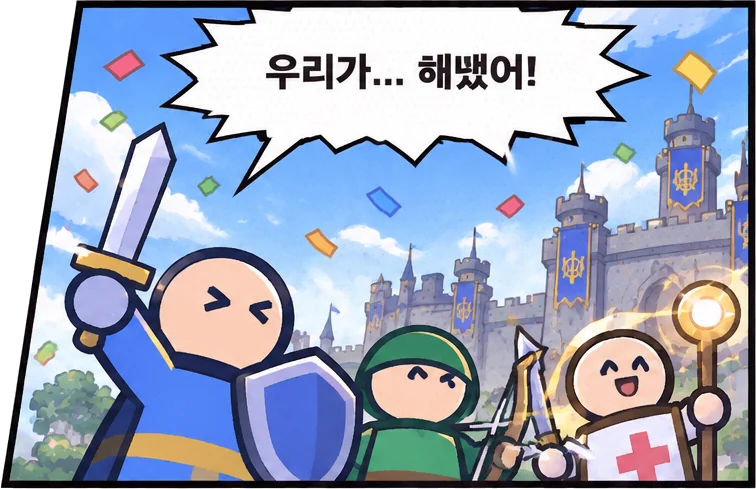
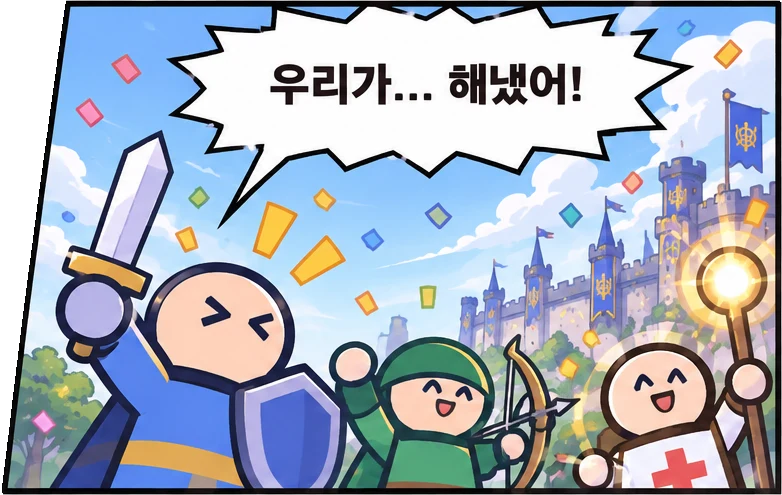
랭킹 서버 스크립트 복원·한마디/상세 기록 저장 추가, 내 기록은 브라우저에 저장한 한마디·상세로 보완, 100라운드 엔딩 컷신 교체, 대주교 부활 체력 25%

diff --git a/main.js b/main.js
@@ -1540,6 +1540,8 @@
     const box = $('rankbox'); if (!box) return; box.innerHTML = '<p>랭킹 불러오는 중…</p>';
     const r = await Net.top(10); if (!$('rankbox')) return;
     const esc = s => String(s).replace(/[&<>"']/g, c => ({ '&': '&amp;', '<': '&lt;', '>': '&gt;', '"': '&quot;', "'": '&#39;' }[c]));
+    // 서버가 한마디·상세 기록을 내려주지 않아도, 이 브라우저에서 올린 기록이면 저장해 둔 값을 붙여 보여 준다
+    { const loc = Net.localTop(); for (const e of r.list) { const l = loc.find(x => x.name === e.name && x.score === e.score); if (l) { if (!e.msg && l.msg) e.msg = l.msg; if (!e.d && !e.detail && l.d) e.d = l.d; } } }
     let hit = false; rankList = r.list;
     const rows = r.list.map((e, i) => { const me = mine != null && !hit && e.score === mine; if (me) hit = true; return '<tr class="clk' + (me ? ' me' : '') + '" data-ri="' + i + '"><td>' + (i + 1) + '</td><td>' + esc(e.name) + (e.msg ? '<div class="rmsg">“' + esc(e.msg) + '”</div>' : '') + '</td><td>' + (e.win ? '클리어' : e.round + '라운드') + '</td><td>' + fmtTime(e.time) + '</td></tr>'; }).join('');
     box.innerHTML = '<div class="rankhead">' + (r.server ? '전체 랭킹' : (Net.configured ? '서버에 연결하지 못해 내 기록만 표시' : '내 기록 (서버 미설정)')) + '</div>'
@@ -1565,12 +1567,12 @@
     act2: [[1.13, 1.81, 56.75], [56.94, 1.92, 41.93], [0.82, 48.39, 44.45], [44.96, 48.49, 54.04]], // 암흑 군단의 진격 개시 (assets/a30_*)
     endless: [[1.07, 1.92, 59.08], [59.77, 1.71, 39.28], [0.69, 48.39, 43.19], [43.38, 48.39, 55.55]],
     dragon: [[0.69, 1.51, 54.79], [52.65, 1.61, 46.6], [0.76, 48.79, 50.0], [48.05, 48.79, 51.26]], // 보물을 깨운 붉은 용의 비상 (assets/d80_*)
-    ending: [[0.91, 1.46, 52.99], [49.93, 1.46, 49.22], [0.91, 50.59, 48.37], [47.98, 50.59, 51.17]],
+    ending: [[0.91, 1.07, 50.59], [48.31, 1.07, 50.91], [0.91, 50.59, 49.54], [48.44, 50.59, 50.78]], // 용사들의 승리와 평화의 귀환
   };
   function playComic(name, done) {
     if (name === 'opening') $('comicStage').innerHTML = OPENING_HTML;
     const wide = name === 'ending'; $('comicStage').style.aspectRatio = wide ? '1536 / 1024' : ''; $('comicStage').style.width = wide ? 'min(97vw, calc((100vh - 62px) * 1.5))' : '';
-    if (name !== 'opening') $('comicStage').innerHTML = COMIC_POS[name].map((p, i) => '<img class="cp" data-i="' + (i + 1) + '" src="assets/' + ({ act2: 'a30', dragon: 'd80' }[name] || name) + '_' + (i + 1) + '.webp?v=3" alt="" style="left:' + p[0] + '%;top:' + p[1] + '%;width:' + p[2] + '%">').join('');
+    if (name !== 'opening') $('comicStage').innerHTML = COMIC_POS[name].map((p, i) => '<img class="cp" data-i="' + (i + 1) + '" src="assets/' + ({ act2: 'a30', dragon: 'd80' }[name] || name) + '_' + (i + 1) + '.webp?v=4" alt="" style="left:' + p[0] + '%;top:' + p[1] + '%;width:' + p[2] + '%">').join('');
     const el = $('comic'), imgs = Array.from(el.querySelectorAll('.cp')); let idx = 0, over = false; comicOn = true;
     const wait = Promise.all(imgs.map(im => im.complete ? 1 : new Promise(r => { im.onload = im.onerror = r; })));
     document.body.classList.add('comicOn'); imgs.forEach(im => im.classList.remove('in')); el.classList.remove('hidden', 'out', 'shake', 'rumble'); $('comicHint').textContent = '화면을 터치하면 다음 컷 ▶';

diff --git a/core.js b/core.js
@@ -265,7 +265,7 @@
             { id: 'warden', name: '수호사제', desc: '푸른 등불의 수호자. 치유량 +20%, 치유한 아군에게 치유량의 80%만큼 보호막 (최대 체력의 30%까지)', mods: { heal: 0.2, ward: 0.8 } },
           ],
           bishop: [
-            { id: 'archbishop', name: '대주교', desc: '황금 십자 지팡이. 치유량 +12%, 축복 강화(공격력 +16%, 받는 피해 -10%), 이 사제는 라운드마다 쓰러진 아군을 1회 부활 (체력 50%)', mods: { heal: 0.12, revive: 1, bless: 1 } },
+            { id: 'archbishop', name: '대주교', desc: '황금 십자 지팡이. 치유량 +12%, 축복 강화(공격력 +16%, 받는 피해 -10%), 이 사제는 라운드마다 쓰러진 아군을 1회 부활 (체력 25%)', mods: { heal: 0.12, revive: 1, bless: 1 } },
             { id: 'templar', name: '전투사제', desc: '철퇴와 갑옷의 성전사. 체력 +30%. 성스러운 구체로 사거리 190 안의 적을 직접 공격(치유량의 170%). 맞은 적은 4초간 받는 피해 +20%, 2초간 이동 속도 감소(낙인)', mods: { hp: 0.3, smite: 1 } },
           ],
         },
@@ -311,7 +311,7 @@
     cardVals: {                       // 카드 수치 (설명 문구와 효과가 모두 여기서 읽는다)
       coreAtk: 0.40, coreRate: 0.25, coreRange: 45, fortHp: 600, repair: 0.15, thorn: 0.9,
       crit: 0.10, critMul: 2, archerRange: 0.12,
-      guard: 0.15, dodge: 0.12, hbuff: 0.12, hbuffT: 4, blessAtk: 0.08, blessDef: 0.05, charge: 0.40, chargeRate: 0.15, revive: 0.5, pierce: 0.40, bomb: 4.0, bombStep: 1.5,
+      guard: 0.15, dodge: 0.12, hbuff: 0.12, hbuffT: 4, blessAtk: 0.08, blessDef: 0.05, charge: 0.40, chargeRate: 0.15, revive: 0.25, pierce: 0.40, bomb: 4.0, bombStep: 1.5,
       auraHeal: 0.025, auraAtk: 0.08, auraDef: 0.08, auraDefCap: 0.40, auraSpd: 0.06, auraBoost: 0.15,
     },
     rerolls: 2,

diff --git a/index.html b/index.html
@@ -479,13 +479,13 @@ body.comicOn { overflow: hidden; }
   </div>
 </div>
 
-<script src="core.js?v=20261123h"></script>
-<script src="figures.js?v=20261123h"></script>
-<script src="scenery.js?v=20261123h"></script>
-<script src="config.js?v=20261123h"></script>
-<script src="meta.js?v=20261123h"></script>
-<script src="net.js?v=20261123h"></script>
-<script src="audio.js?v=20261123h"></script>
-<script src="main.js?v=20261123h"></script>
+<script src="core.js?v=20261123i"></script>
+<script src="figures.js?v=20261123i"></script>
+<script src="scenery.js?v=20261123i"></script>
+<script src="config.js?v=20261123i"></script>
+<script src="meta.js?v=20261123i"></script>
+<script src="net.js?v=20261123i"></script>
+<script src="audio.js?v=20261123i"></script>
+<script src="main.js?v=20261123i"></script>
 </body>
 </html>

diff --git a/README.md b/README.md
@@ -107,7 +107,7 @@ node tools/balance.mjs sweep bossPool.4.abil.artillery.dmg 90,60 60             
 
 ## 랭킹과 플레이 기록 서버
 - `config.js`의 `API_URL`이 비어 있으면 이 브라우저의 개인 랭킹만 동작한다.
-- 서버는 `server/apps-script.gs`(구글 앱스 스크립트 + 구글 시트, 무료). 파일 맨 위의 설치 방법(5분)을 따라 배포한 뒤 웹 앱 주소를 `API_URL`에 넣는다.
+- 서버는 `server/apps-script.gs`(구글 앱스 스크립트 + 구글 시트, 무료). 파일 맨 위의 설치 방법(5분)을 따라 배포한 뒤 웹 앱 주소를 `API_URL`에 넣는다. 랭킹의 한마디·라운드별 상세 기록은 이 서버 코드가 새 버전(한마디·상세 열 저장)으로 배포돼 있어야 전체 랭킹에서 보인다.
 - 랭킹 점수: `(도달 라운드 + 클리어면 1) × 100000 + (클리어면 빠를수록, 실패면 처치 수)`.
 - 게임이 끝나거나 도중에 나가면 플레이 기록(점수, 강화·전직 선택, 유닛 구성, 성이 맞은 원인, 라운드별 상태, 렉 횟수, 기기 환경)이 `logs` 탭에 쌓인다. 닉네임 외 개인정보는 보내지 않고, 기기별 익명 ID만 쓴다. 전송 실패 시 브라우저에 보관했다가 다시 보낸다.
 - 점수는 브라우저가 보내는 값이라 조작할 수 있다. 서버에서는 범위·시간만 검사한다.
